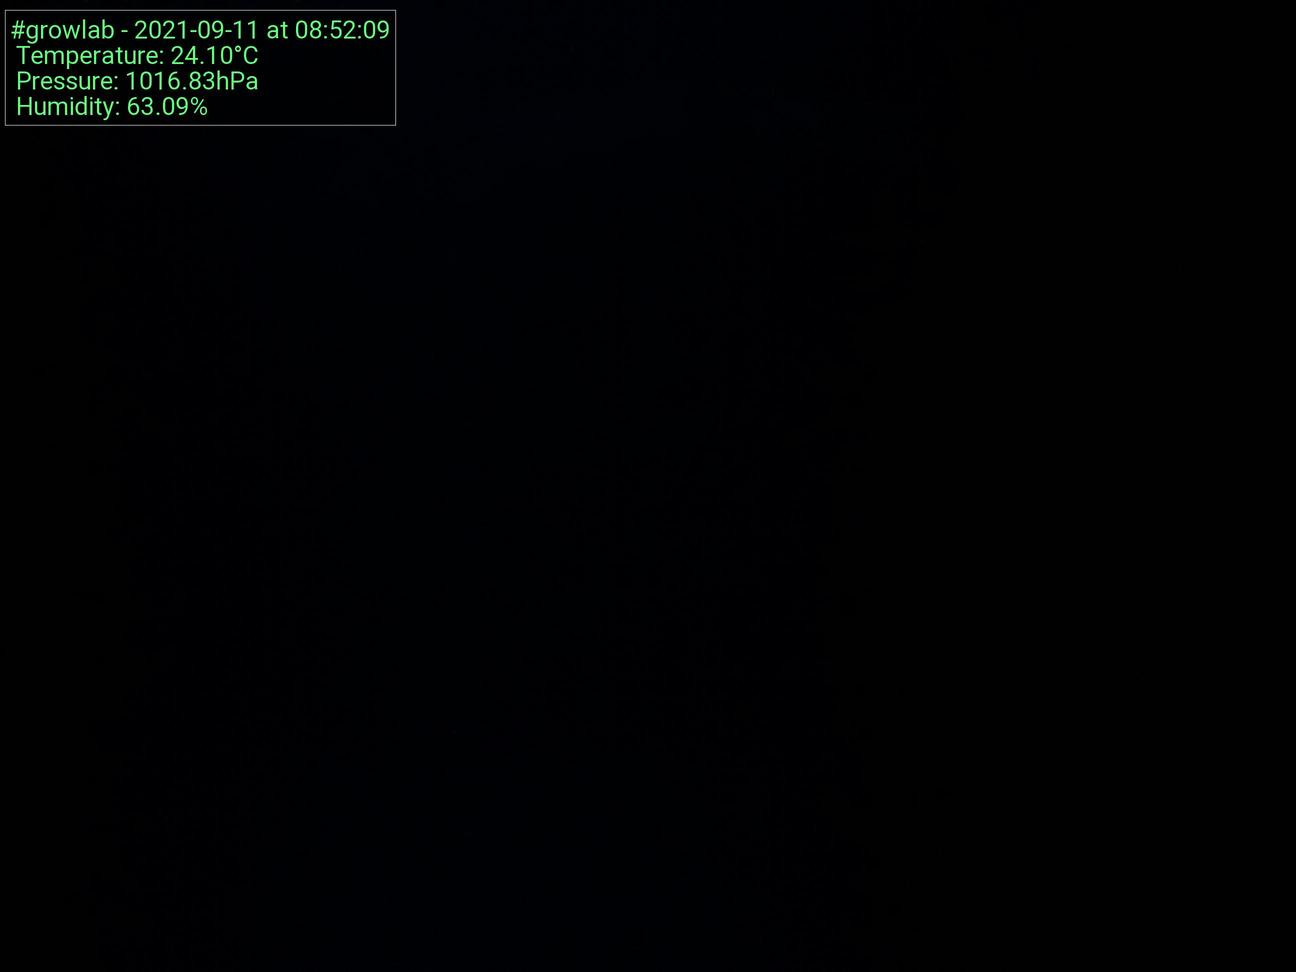
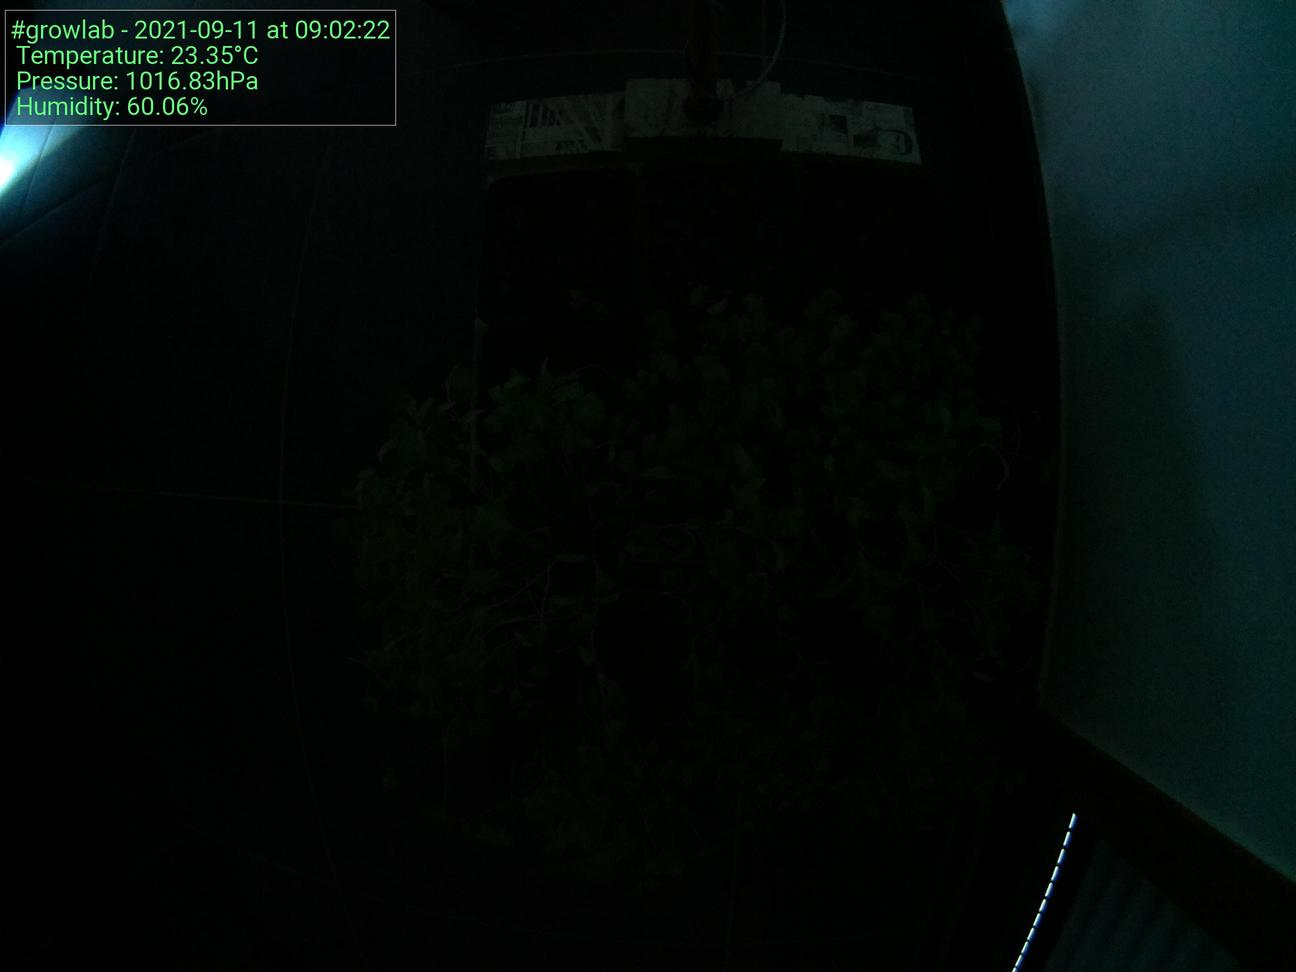
Update images at Sat 11 Sep 09:02:31 CEST 2021

diff --git a/docs/index.html b/docs/index.html
@@ -52,15 +52,15 @@
                             </tr>
                             <tr>
                                 <td>Time</td>
-                                <td>08:52:09</td>
+                                <td>09:02:22</td>
                             </tr>
                             <tr>
                                 <td>Temperature</td>
-                                <td>24.10°C</td>
+                                <td>23.35°C</td>
                             </tr>
                             <tr>
                                 <td>Humidity</td>
-                                <td>63.09%</td>
+                                <td>60.06%</td>
                             </tr>
                             <tr>
                                 <td>Pressure</td>
@@ -72,7 +72,7 @@
 
                 <h5>Latest image</h5>
                 <div style="width: 85%;">
-                            <img class="figure-img img-fluid rounded" src="./preview.jpg?uid=1631343137.6040435">
+                            <img class="figure-img img-fluid rounded" src="./preview.jpg?uid=1631343750.8855133">
                 </div>
             </div>
         </div>
